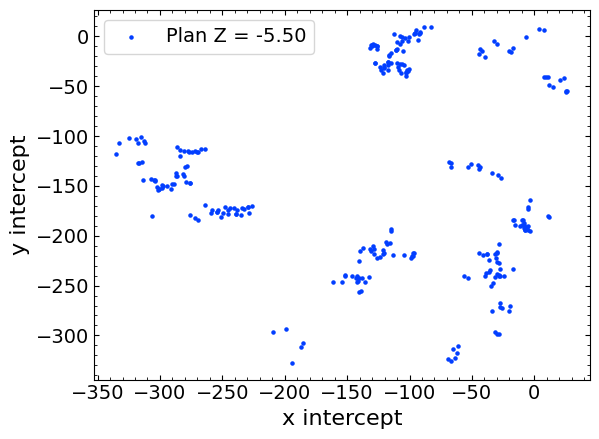
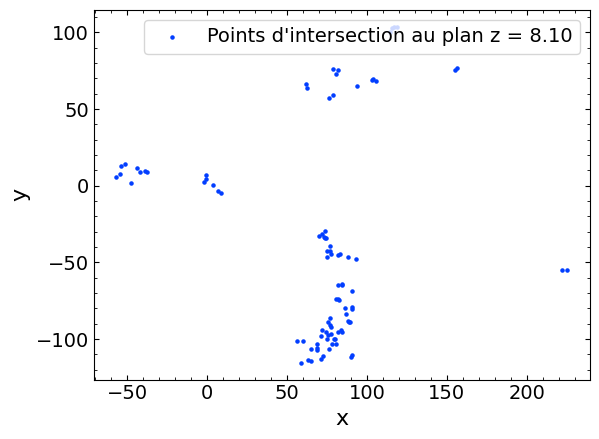
2D brownian and axis in french

diff --git a/TimesSeriesDataSets/PH_method.py b/TimesSeriesDataSets/PH_method.py
@@ -100,7 +100,6 @@ def lmk(x, y, m, k):
     else:
         return 0.0
 
-
 @nb.njit
 def lk(x, y, k):
     """
@@ -166,7 +165,6 @@ def average_difference(points):
     average_diff = total_difference / (n - 1)
     return average_diff
 
-
 def optimise_plane_lk(x, y, z, height_start=5, height_stop=25, step=1, max_diff=True):
     """
     Optimise the plane height to find the height that maximizes the average difference 
@@ -210,6 +208,82 @@ def optimise_plane_lk(x, y, z, height_start=5, height_stop=25, step=1, max_diff=
     return best_height
 
 @nb.njit
+def rk4_step_2d(x, y, dt, function):
+    """
+    Perform one step of the Runge-Kutta 4th order method for solving a 2D system of ODEs.
+
+    Parameters:
+    - x, y: Current x and y values.
+    - dt: Time step.
+    - function: The function that represents the dynamics of the system.
+
+    Returns:
+    - x_new, y_new: New x and y values after one RK4 step.
+    """
+    k1_x, k1_y = function(x, y)
+    k2_x, k2_y = function(x + 0.5 * dt * k1_x, y + 0.5 * dt * k1_y)
+    k3_x, k3_y = function(x + 0.5 * dt * k2_x, y + 0.5 * dt * k2_y)
+    k4_x, k4_y = function(x + dt * k3_x, y + dt * k3_y)
+    x_new = x + (dt / 6.0) * (k1_x + 2 * k2_x + 2 * k3_x + k4_x)
+    y_new = y + (dt / 6.0) * (k1_y + 2 * k2_y + 2 * k3_y + k4_y)
+    return x_new, y_new
+
+@nb.njit
+def find_lk_for_k_2d(x, y, value, ks=np.arange(1, 20)):
+    """
+    Apply the Lk method to compute the trajectory length for various configurations of sliding window sizes, 
+    evaluated at the intercepts with a specified horizontal line on the y-axis.
+
+    Parameters:
+    - x (array of float): The x-coordinates of the trajectory.
+    - y (array of float): The y-coordinates of the trajectory.
+    - value (float): The y-value to find intercepts.
+    - ks (array of int, optional): The range of k-values (window sizes) to use.
+    
+    Returns:
+    - tuple: Two arrays, the first containing the k-values used, and the second containing the logarithm of the Lk lengths.
+    """
+    x_intercept, y_intercept = find_intercepts_2d(x, y, value)
+    l_de_k = np.zeros(len(ks), dtype=np.float64)
+    for i in range(len(ks)):
+        l_de_k[i] = lk(x_intercept, y_intercept, ks[i])
+    return ks, np.log(l_de_k)
+
+@nb.njit
+def optimise_line_y(x, y, value_start=0.1, value_stop=1.0, step=0.1, max_diff=True):
+    """
+    Optimise the y-value to find the value that maximizes the average difference 
+    in the logarithm of the trajectory lengths calculated by the Lk method.
+
+    This function iterates through a range of y-values and determines the value
+    at which the average difference of the logarithm of lengths of trajectories,
+    intercepted at each y-value, is maximized or minimized.
+
+    Parameters:
+    - x (array of float): The x-coordinates of the trajectory.
+    - y (array of float): The y-coordinates of the trajectory.
+    - value_start (float, optional): The starting y-value of interest.
+    - value_stop (float, optional): The ending y-value of interest.
+    - step (float, optional): The increment step between y-values.
+    - max_diff (bool, optional): Whether to maximize (True) or minimize (False) the difference.
+
+    Returns:
+    - float: The y-value that maximizes or minimizes the average difference of the logarithmic lengths.
+    """
+    possible_values = np.arange(value_start, value_stop, step)
+    max_moy = -np.inf if max_diff else np.inf
+    best_value = None
+
+    for value in possible_values:
+        _, l_de_k = find_lk_for_k_2d(x, y, value)
+        moyenne_dy = average_difference(l_de_k)
+        if (max_diff and moyenne_dy > max_moy) or (not max_diff and moyenne_dy < max_moy):
+            max_moy = moyenne_dy
+            best_value = value
+
+    return best_value
+
+@nb.njit
 def rk4_step(x, y, z, dt, function):
     """
     Perform one step of the Runge-Kutta 4th order method for solving a system of ODEs.
@@ -248,10 +322,25 @@ def plot_3D(name, x, y, z, cmap=plt.cm.viridis):
     plt.savefig(os.path.join(out_dir, name + "3D.png"), transparent=True, bbox_inches="tight", dpi=350)
     plt.close()
 
+def plot_2D(name, x, y, cmap=plt.cm.viridis):
+    colors = cmap(np.linspace(0, 1, len(x)))
+
+    # Tracer les trajectoires avec un gradient de couleur
+    for i in range(len(x) - 1):
+        plt.plot(x[i:i+2], y[i:i+2], color=colors[i], lw=0.5)
+    plt.xlabel('x', fontsize=16)
+    plt.ylabel('y', fontsize=16)
+
+    out_dir = os.path.join("output", "06_2D_plot")
+    os.makedirs(out_dir, exist_ok=True)
+
+    plt.savefig(os.path.join(out_dir, name + "_2D.png"), transparent=True, bbox_inches="tight", dpi=350)
+    plt.close()
+
 def plot_intercept(name, x_intercept, y_intercept, height, best=True):
-    plt.scatter(x_intercept, y_intercept, s=5, marker="o", color=PALETTEB[0], label=f"Plan Z = {height:.2f}")
-    plt.xlabel("x intercept", fontsize=16)
-    plt.ylabel("y intercept", fontsize=16)
+    plt.scatter(x_intercept, y_intercept, s=5, marker="o", color=PALETTEB[0], label=f"Points d'intersection au plan z = {height:.2f}")
+    plt.xlabel("x", fontsize=16)
+    plt.ylabel("y", fontsize=16)
     plt.legend(fontsize=14)
     plt.minorticks_on()
     plt.tick_params(axis="both", which="both", direction="in", top=True, right=True, labelsize=14)
@@ -270,8 +359,8 @@ def plot_intercept(name, x_intercept, y_intercept, height, best=True):
 def plot_LK(name, k, l_of_k, height, best=True):
     plt.plot(k, l_of_k, linestyle="-", color=PALETTEB[2], alpha=0.4)
     plt.plot(k, l_of_k, marker='o', linestyle='', color=PALETTEB[2], label=f"Plan Z = {height:.2f}")
-    plt.xlabel("k Values", fontsize=16)
-    plt.ylabel("Log of Lk", fontsize=16)
+    plt.xlabel("k", fontsize=16)
+    plt.ylabel("log(L(k))", fontsize=16)
     plt.legend(fontsize=14)
     plt.minorticks_on()
     plt.tick_params(axis="both", which="both", direction="in", top=True, right=True, labelsize=14)
@@ -282,6 +371,26 @@ def plot_LK(name, k, l_of_k, height, best=True):
     else:
         out_dir = os.path.join("output", "05_worst_LK")
         subname = "_worst_LK.png"
+
+    os.makedirs(out_dir, exist_ok=True)
+    plt.savefig(os.path.join(out_dir, name + subname), transparent=True, bbox_inches="tight")
+    plt.close()
+
+def plot_LK_2D(name, k, l_of_k, height, best=True):
+    plt.plot(k, l_of_k, linestyle="-", color=PALETTEB[3], alpha=0.4)
+    plt.plot(k, l_of_k, marker='o', linestyle='', color=PALETTEB[3], label=f"Plan Z = {height:.2f}")
+    plt.xlabel("k", fontsize=16)
+    plt.ylabel("log(L(k))", fontsize=16)
+    plt.legend(fontsize=14)
+    plt.minorticks_on()
+    plt.tick_params(axis="both", which="both", direction="in", top=True, right=True, labelsize=14)
+
+    if best:
+        out_dir = os.path.join("output", "07_best_LK_2D")
+        subname = "_best_LK_2D.png"
+    else:
+        out_dir = os.path.join("output", "08_worst_LK_2D")
+        subname = "_worst_LK_2D.png"
 
     os.makedirs(out_dir, exist_ok=True)
     plt.savefig(os.path.join(out_dir, name + subname), transparent=True, bbox_inches="tight")

diff --git a/TimesSeriesDataSets/Brownian.py b/TimesSeriesDataSets/Brownian.py
@@ -1,35 +1,48 @@
 from PH_method import *
 
 
-def brownian_motion(x0=0., y0=0., z0=0., num_steps=1000000, dt=0.1):
+def brownian_motion(x0=0., y0=0., z0=0., dimension=3, num_steps=1000000, dt=0.1):
     x = np.zeros(num_steps + 1)
     y = np.zeros(num_steps + 1)
     z = np.zeros(num_steps + 1)
-
     x[0], y[0], z[0] = x0, y0, z0
 
     for j in range(1, num_steps + 1):
         s = np.sqrt(6 * dt) * np.random.randn(1)
         dx = np.random.randn()
         dy = np.random.randn()
-        dz = np.random.randn()
-        norm_dxyz = np.sqrt(dx ** 2 + dy ** 2 + dz ** 2)
-        dx *= s / norm_dxyz
-        dy *= s / norm_dxyz
-        dz *= s / norm_dxyz
+        if dimension == 3:
+            dz = np.random.randn()
+            norm = np.sqrt(dx ** 2 + dy ** 2 + dz ** 2)
+            dz *= s / norm
+            z[j] = z[j - 1] + dz
+        if dimension == 2:
+            norm = np.sqrt(dx ** 2 + dy ** 2)
+            z[j] = 0
+        dx *= s / norm
+        dy *= s / norm
         x[j] = x[j - 1] + dx
         y[j] = y[j - 1] + dy
-        z[j] = z[j - 1] + dz
 
     return x, y, z
 
 name ="brownian"
 
-x_graph, y_graph, z_graph = brownian_motion(num_steps=100000)
-plot_3D(name, x_graph, y_graph, z_graph, cmap=plt.cm.rainbow)
+#x_graph, y_graph, z_graph = brownian_motion(num_steps=100000)
+#plot_3D(name, x_graph, y_graph, z_graph, cmap=plt.cm.rainbow)
+
+#x_graph_2D, y_graph_2D, z_graph_2D = brownian_motion(dimension=2, num_steps=100000)
+#plot_2D(name, x_graph_2D, y_graph_2D, cmap=plt.cm.rainbow)
+
+x_2D, y_2D, z_2D = brownian_motion(num_steps=1000000, dimension=2)
+best_y = optimise_line_y(x_2D, y_2D, value_start=-10, value_stop=10, step=0.1)
+k_best_y, ln_of_k_best_2D = find_lk_for_k_2d(x_2D, y_2D, best_y)
+plot_LK_2D(name, k_best_y, ln_of_k_best_2D, best_y)
+worst_y = optimise_line_y(x_2D, y_2D, value_start=-10, value_stop=10, step=0.1, max_diff=False)
+k_worst_y, ln_of_k_worst_2D = find_lk_for_k_2d(x_2D, y_2D, worst_y)
+plot_LK_2D(name, k_worst_y, ln_of_k_worst_2D, worst_y, best=False)
 
 x, y, z = brownian_motion(num_steps=1000000)
-
 best_h = optimise_plane_lk(x, y, z, height_start=-10, height_stop=10, step=0.1)
 x_intercept_best, y_intercept_best = find_intercepts(x, y, z, best_h) 
 k_best, l_of_k_best = find_lk_for_k(x, y, z, best_h)

diff --git a/TimesSeriesDataSets/Chen_Lee.py b/TimesSeriesDataSets/Chen_Lee.py
@@ -32,8 +32,8 @@ def solve_chen_lee(x0=1.0, y0=1.0, z0=1.0, dt=0.01, num_steps=1000000):
 
 name ="chenlee"
 
-x_graph, y_graph, z_graph = solve_chen_lee(num_steps=100000)
-plot_3D(name, x_graph, y_graph, z_graph, cmap=plt.cm.plasma)
+#x_graph, y_graph, z_graph = solve_chen_lee(num_steps=100000)
+#plot_3D(name, x_graph, y_graph, z_graph, cmap=plt.cm.plasma)
 
 x, y, z = solve_chen_lee(num_steps=1000000)
 

diff --git a/TimesSeriesDataSets/Bouali.py b/TimesSeriesDataSets/Bouali.py
@@ -32,8 +32,8 @@ def solve_bouali(x0=0.5, y0=0.5, z0=0.5, dt=0.01, num_steps=1000000):
 
 name ="bouali"
 
-x_graph, y_graph, z_graph = solve_bouali(num_steps=100000)
-plot_3D(name, x_graph, y_graph, z_graph, cmap=plt.cm.cividis)
+#x_graph, y_graph, z_graph = solve_bouali(num_steps=100000)
+#plot_3D(name, x_graph, y_graph, z_graph, cmap=plt.cm.cividis)
 
 x, y, z = solve_bouali(num_steps=1000000)
 

diff --git a/TimesSeriesDataSets/Random_Walk.py b/TimesSeriesDataSets/Random_Walk.py
@@ -26,8 +26,8 @@ def random_walk_3d(num_steps):
 
 name ="randomwalk"
 
-x_graph, y_graph, z_graph = random_walk_3d(num_steps=100000)
-plot_3D(name, x_graph, y_graph, z_graph, cmap=plt.cm.inferno)
+#x_graph, y_graph, z_graph = random_walk_3d(num_steps=100000)
+#plot_3D(name, x_graph, y_graph, z_graph, cmap=plt.cm.inferno)
 
 x, y, z = random_walk_3d(num_steps=100000)
 

diff --git a/TimesSeriesDataSets/Noise.py b/TimesSeriesDataSets/Noise.py
@@ -19,8 +19,8 @@ def generate_noise_trajectory(num_points):
 
 name = "noise"
 
-x_graph, y_graph, z_graph = generate_noise_trajectory(num_points=1000)
-plot_3D(name, x_graph, y_graph, z_graph)
+#x_graph, y_graph, z_graph = generate_noise_trajectory(num_points=1000)
+#plot_3D(name, x_graph, y_graph, z_graph)
 
 x, y, z = generate_noise_trajectory(num_points=10000)
 

diff --git a/TimesSeriesDataSets/Lorenz.py b/TimesSeriesDataSets/Lorenz.py
@@ -41,8 +41,8 @@ def solve_lorenz(x0=0.0, y0=1.0, z0=1.05, dt=0.01, num_steps=1000000):
 
 name ="lorenz"
 
-x_graph, y_graph, z_graph = solve_lorenz(num_steps=100000)
-plot_3D(name, x_graph, y_graph, z_graph)
+#x_graph, y_graph, z_graph = solve_lorenz(num_steps=100000)
+#plot_3D(name, x_graph, y_graph, z_graph)
 
 x, y, z = solve_lorenz(num_steps=1000000)
 
